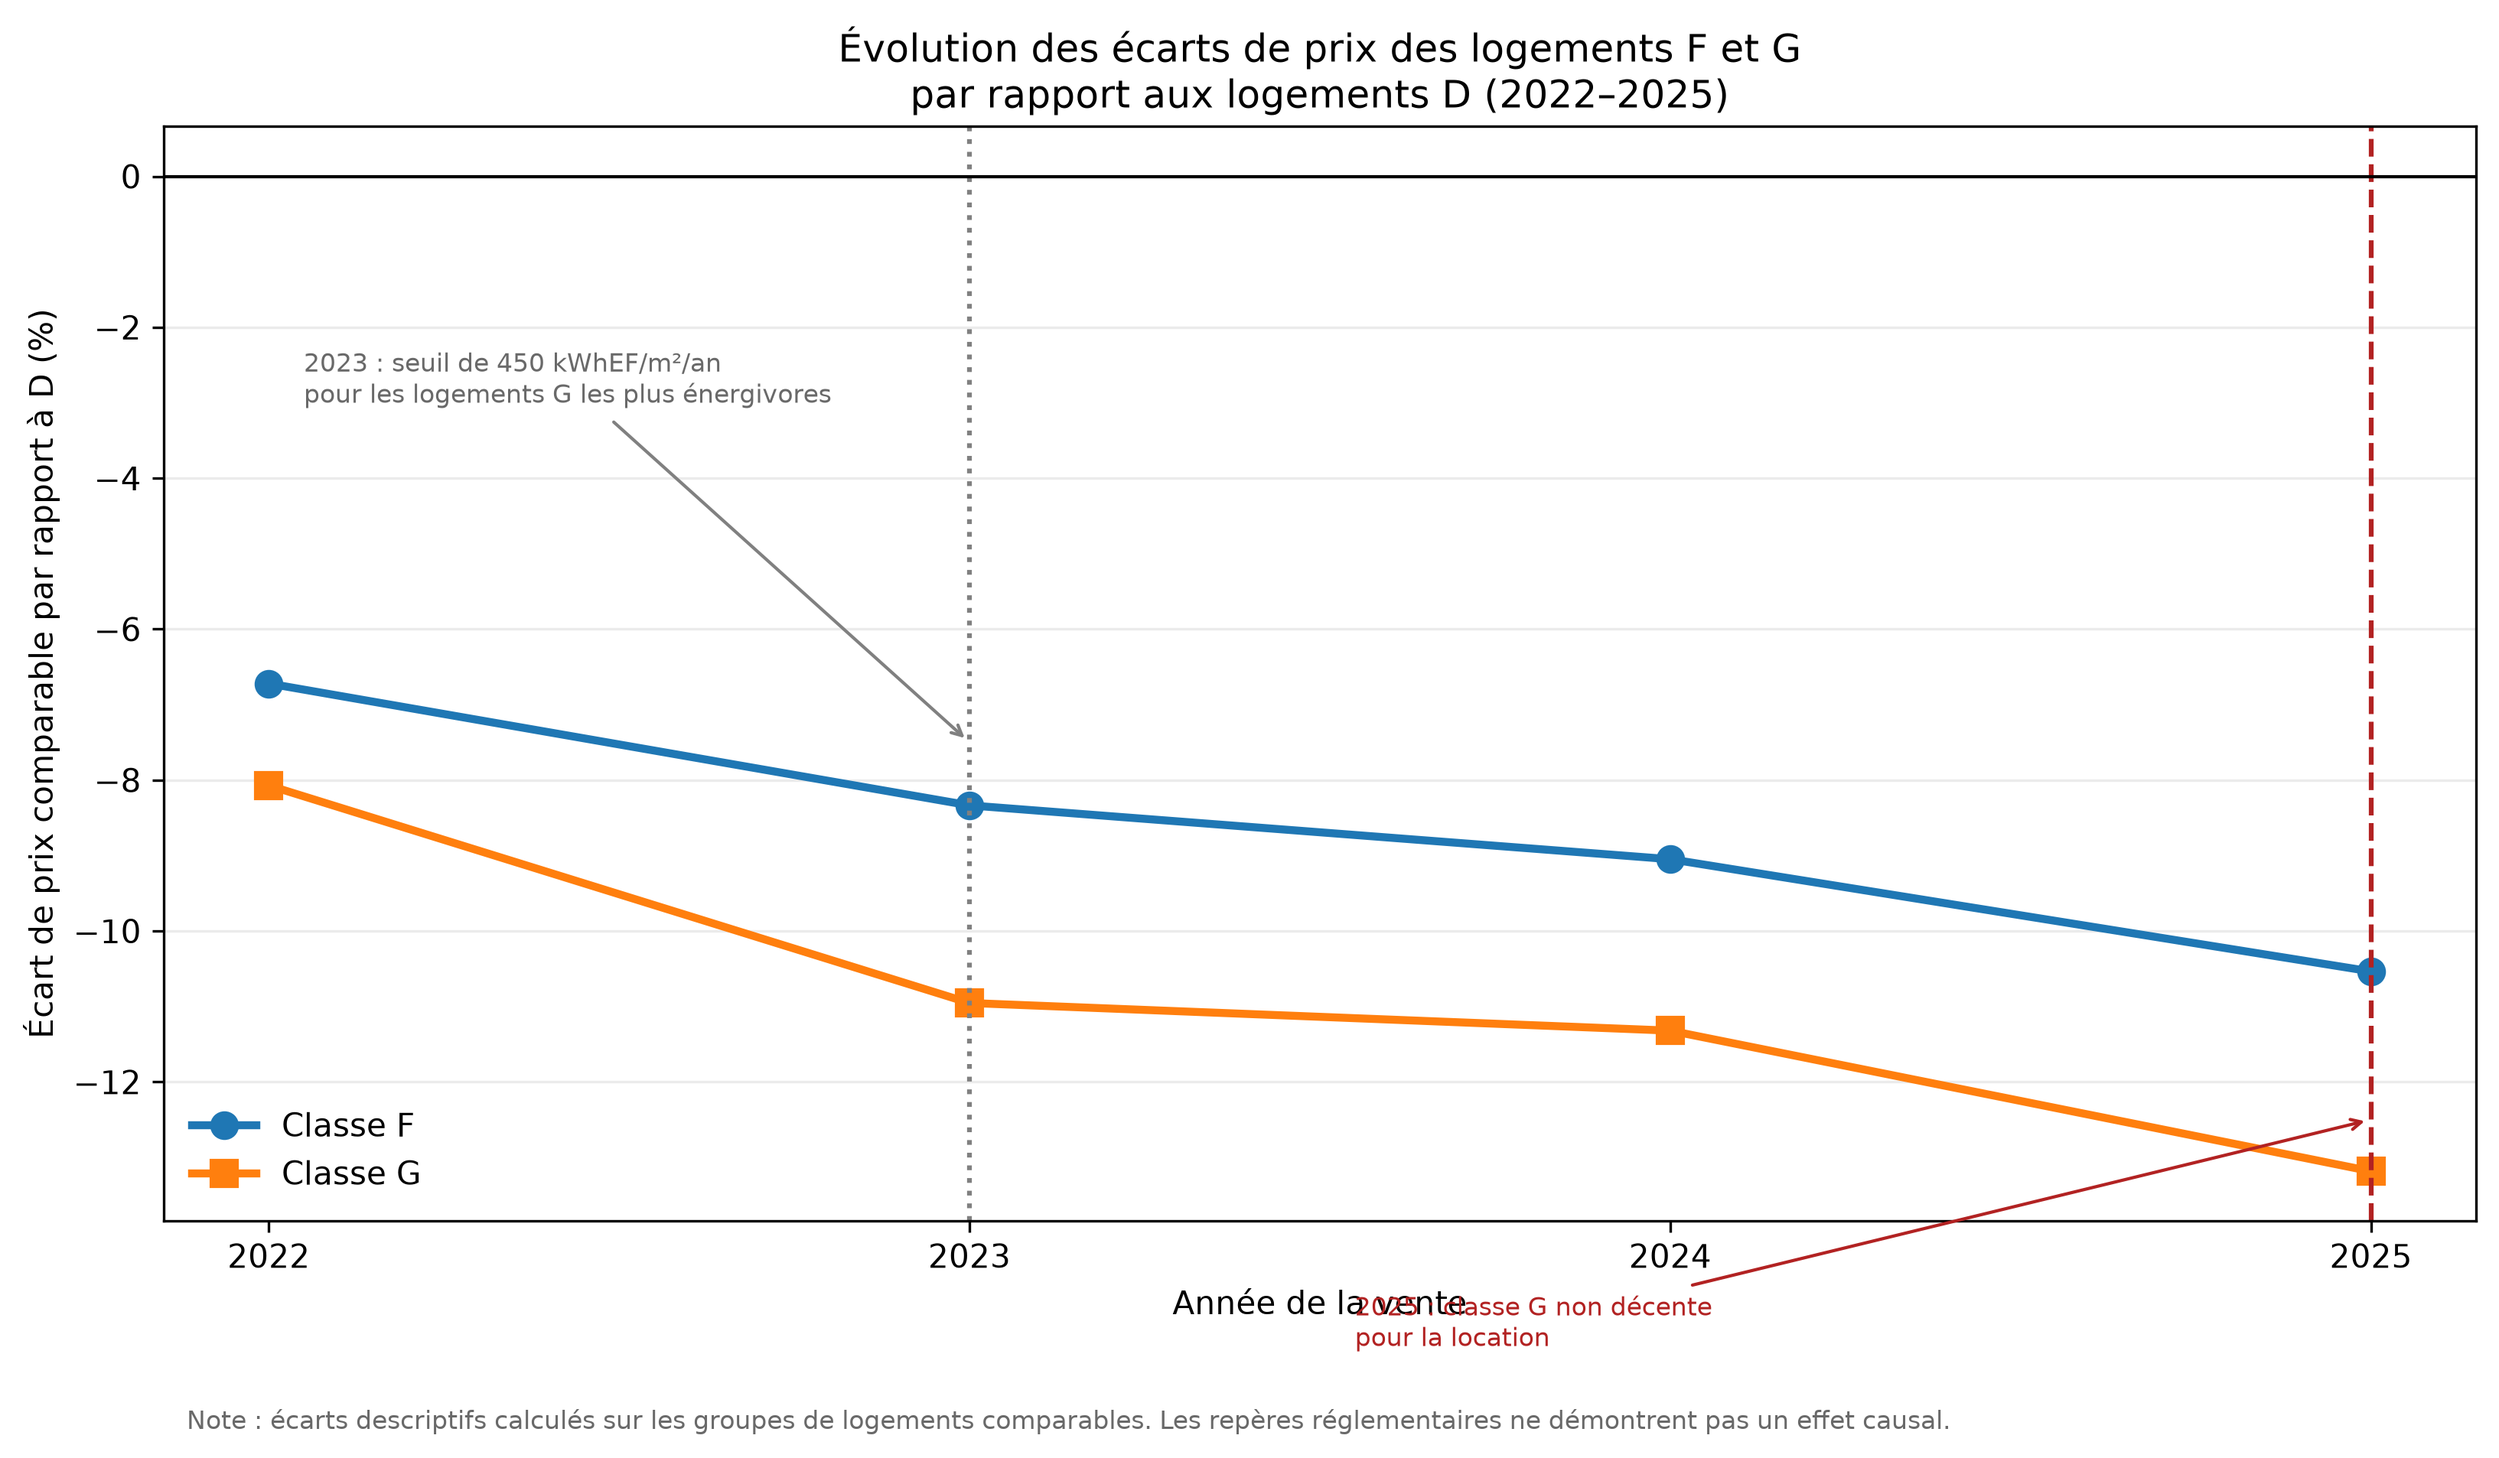
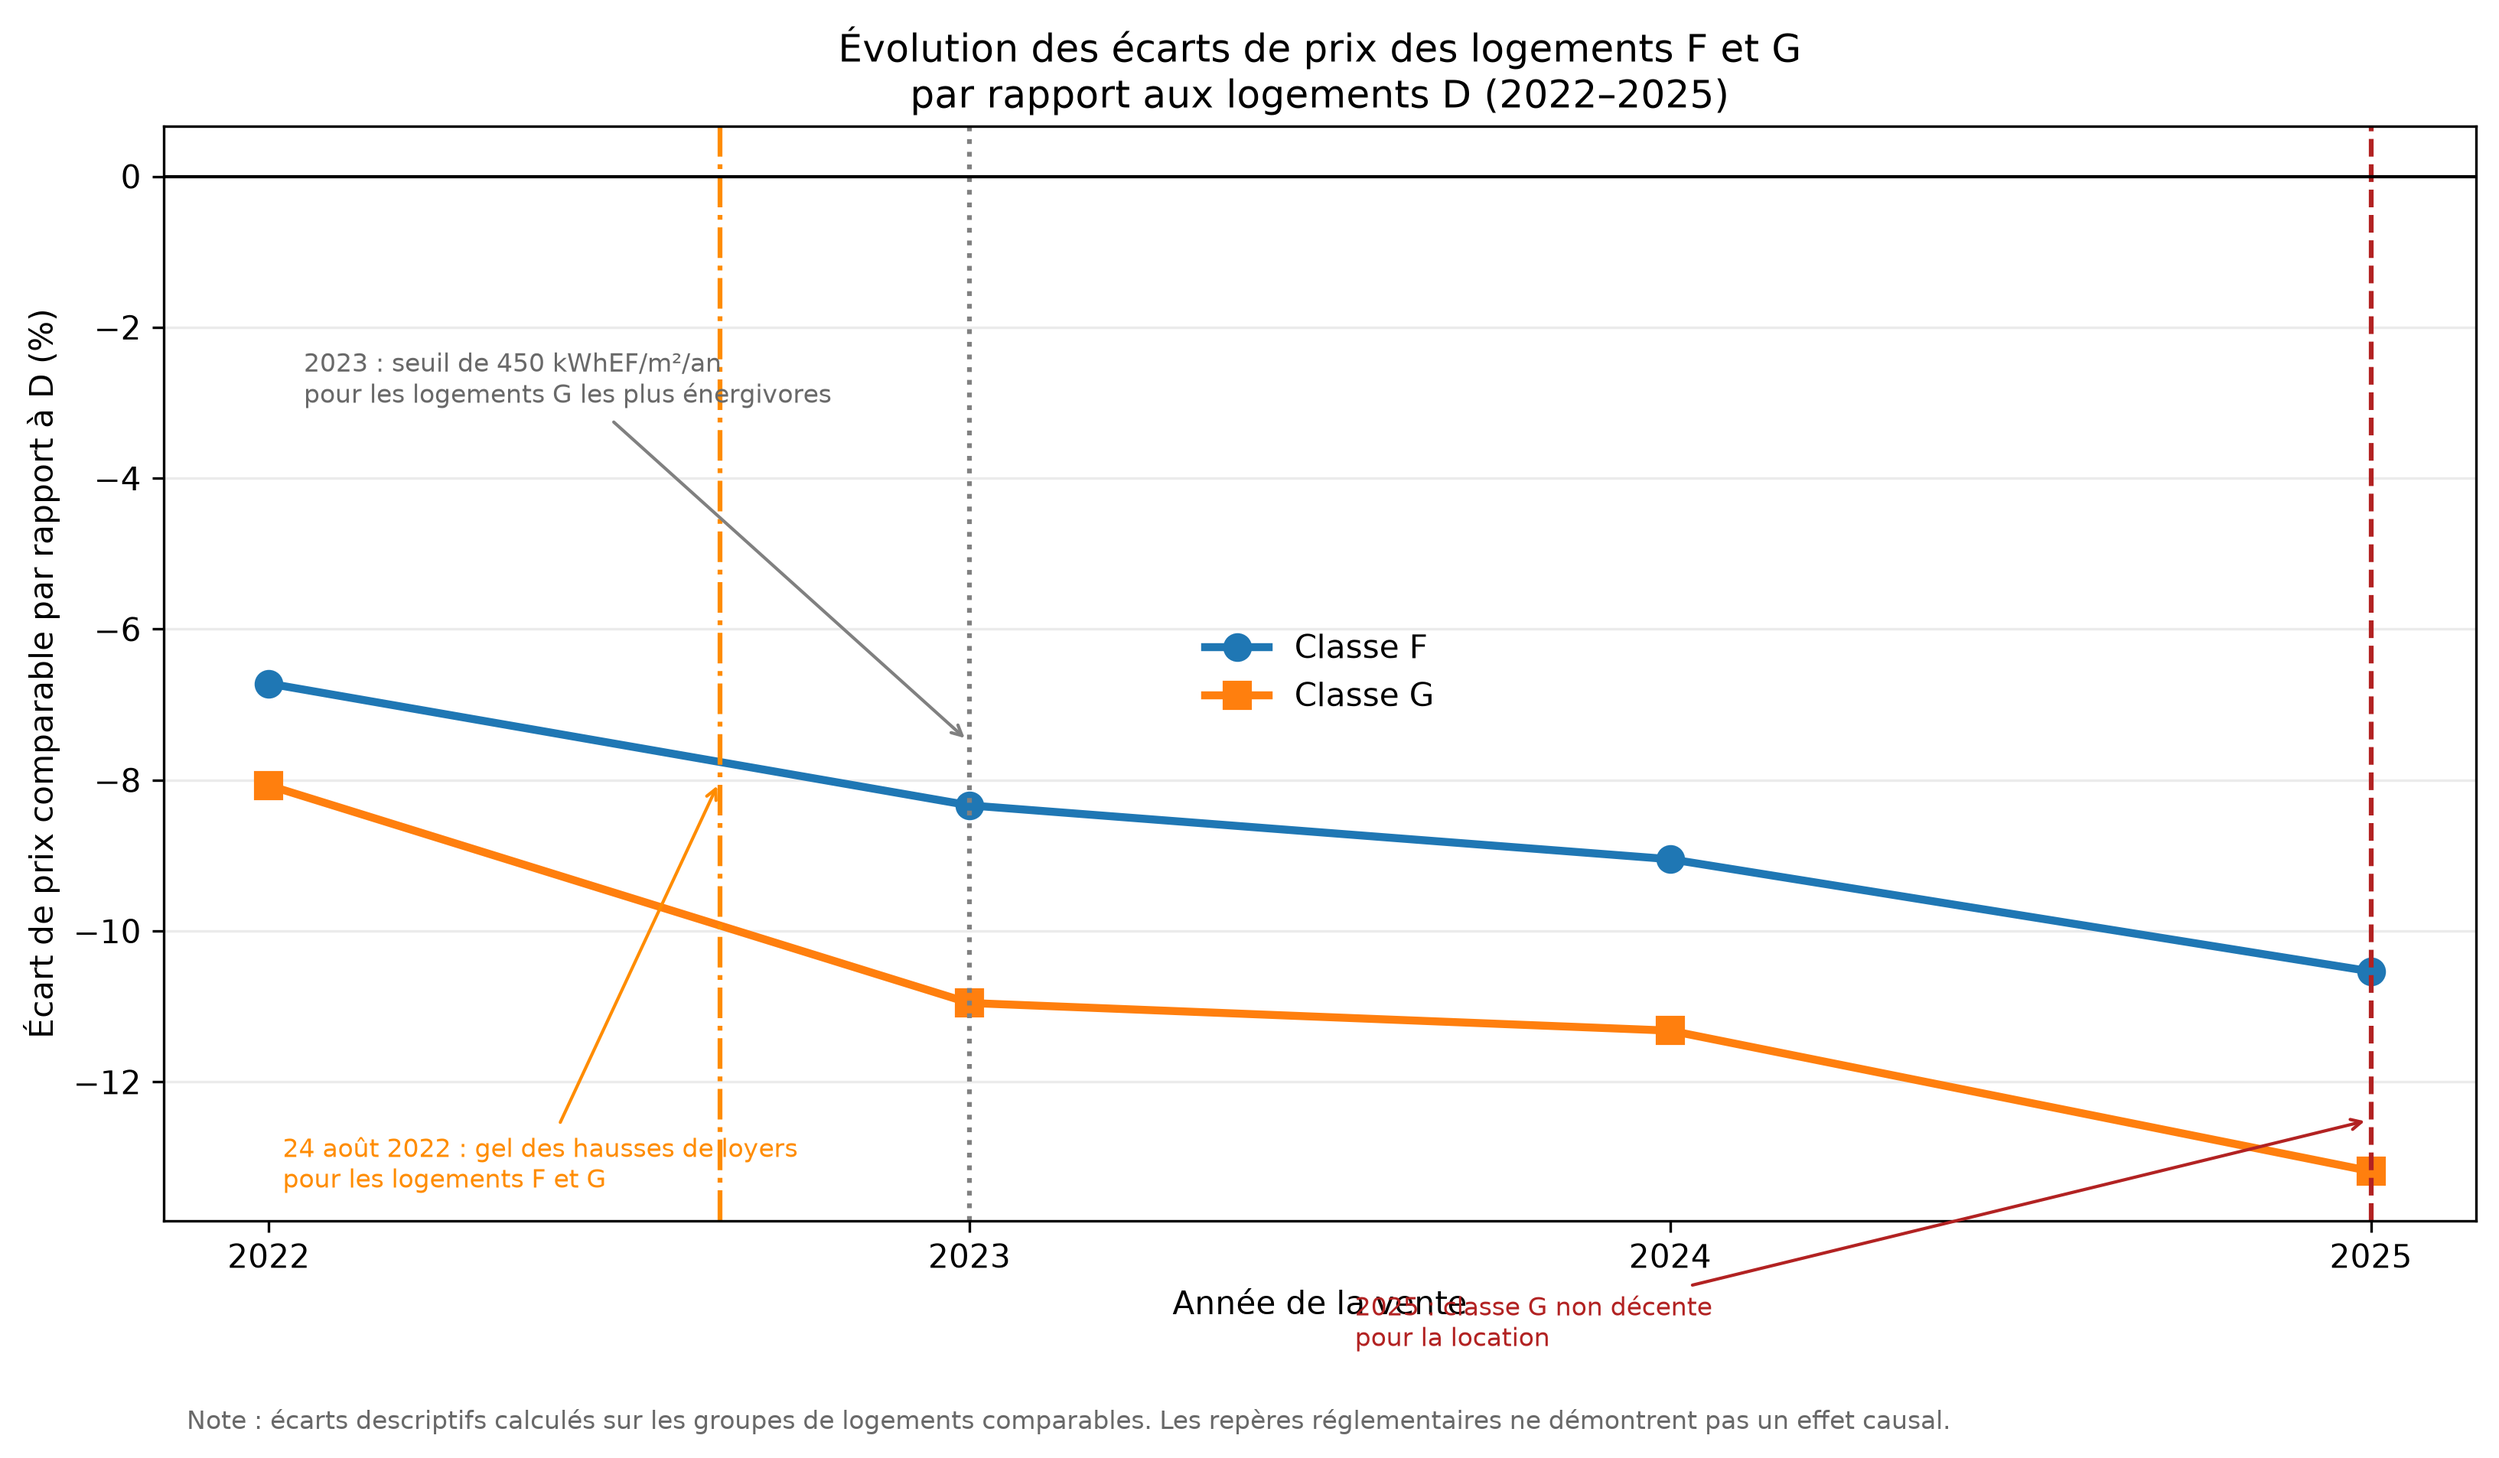
Ajout du gel des loyers au graphique annuel

Changed region(s): [[0.0625, 0.7429, 0.3123, 0.8358], [0.4685, 0.4334, 0.5622, 0.4953], [0.2811, 0.5262, 0.3123, 0.5572]]

diff --git a/src/visualiser_evolution_annuelle.py b/src/visualiser_evolution_annuelle.py
@@ -28,6 +28,16 @@ def main():
         )
 
     # Repères réglementaires : mesures applicables aux locations en métropole.
+    # 24 août 2022 : gel des augmentations de loyers pour les logements F et G concernés.
+    date_gel_loyers = 2022 + 235 / 365
+    ax.axvline(date_gel_loyers, color="darkorange", linestyle="-.", linewidth=1.5)
+    ax.annotate(
+        "24 août 2022 : gel des hausses de loyers\npour les logements F et G",
+        xy=(date_gel_loyers, -8.0), xytext=(2022.02, -13.4),
+        fontsize=8, color="darkorange",
+        arrowprops={"arrowstyle": "->", "color": "darkorange"},
+    )
+
     ax.axvline(2023, color="grey", linestyle=":", linewidth=1.5)
     ax.annotate(
         "2023 : seuil de 450 kWhEF/m²/an\npour les logements G les plus énergivores",
